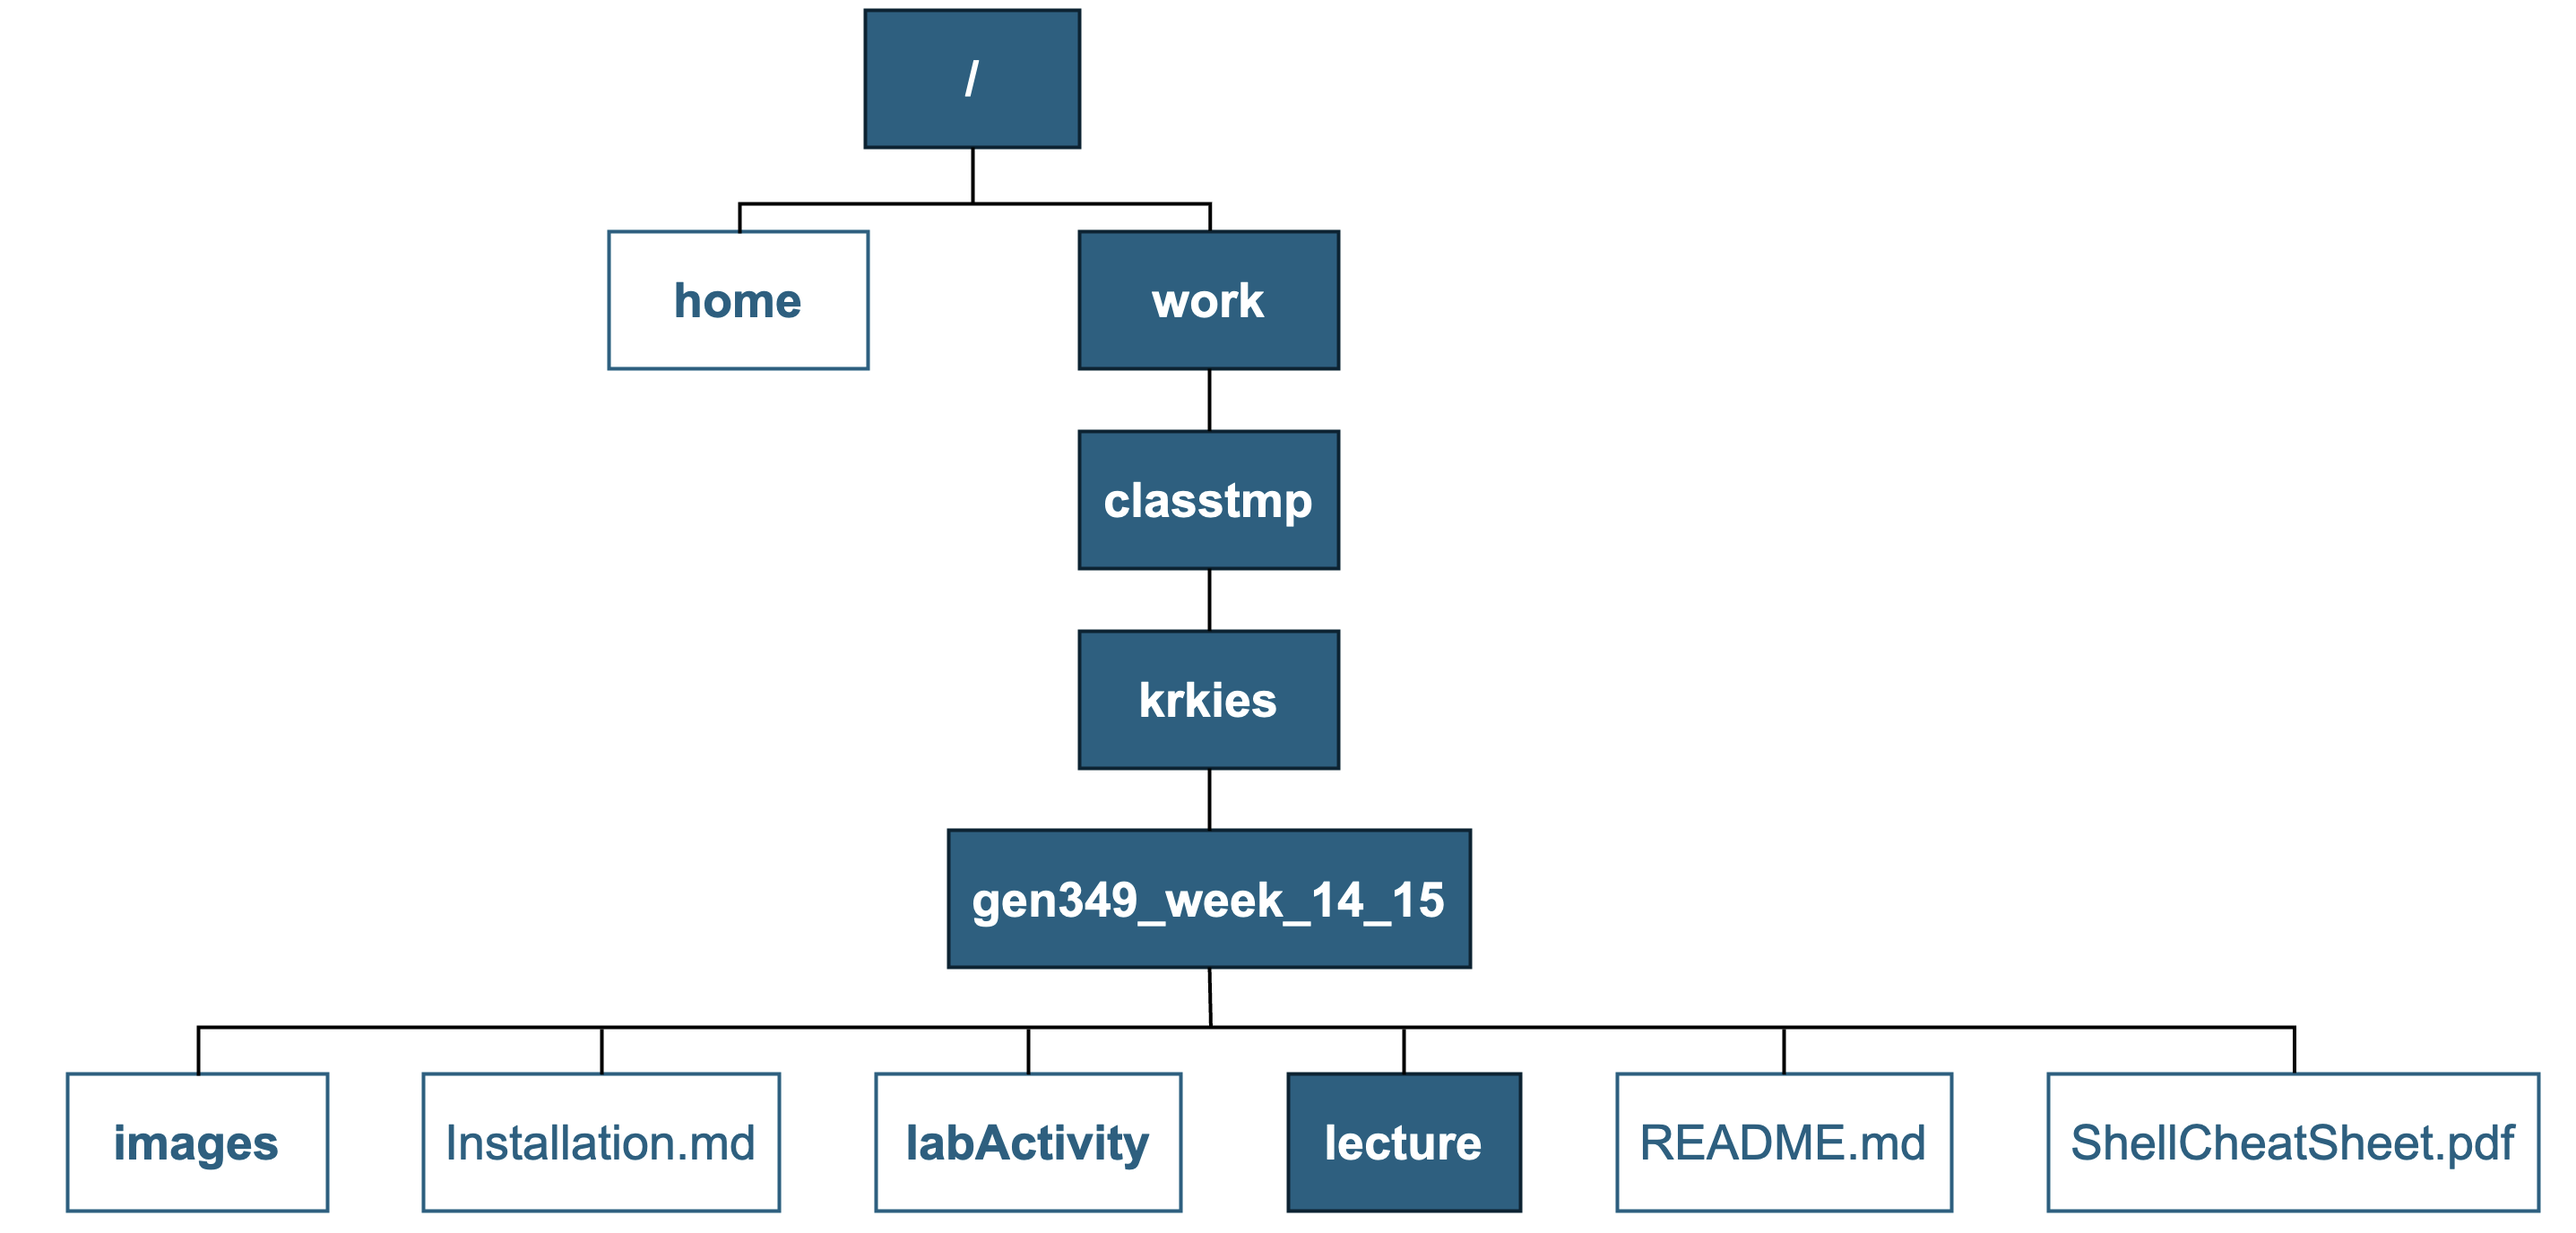
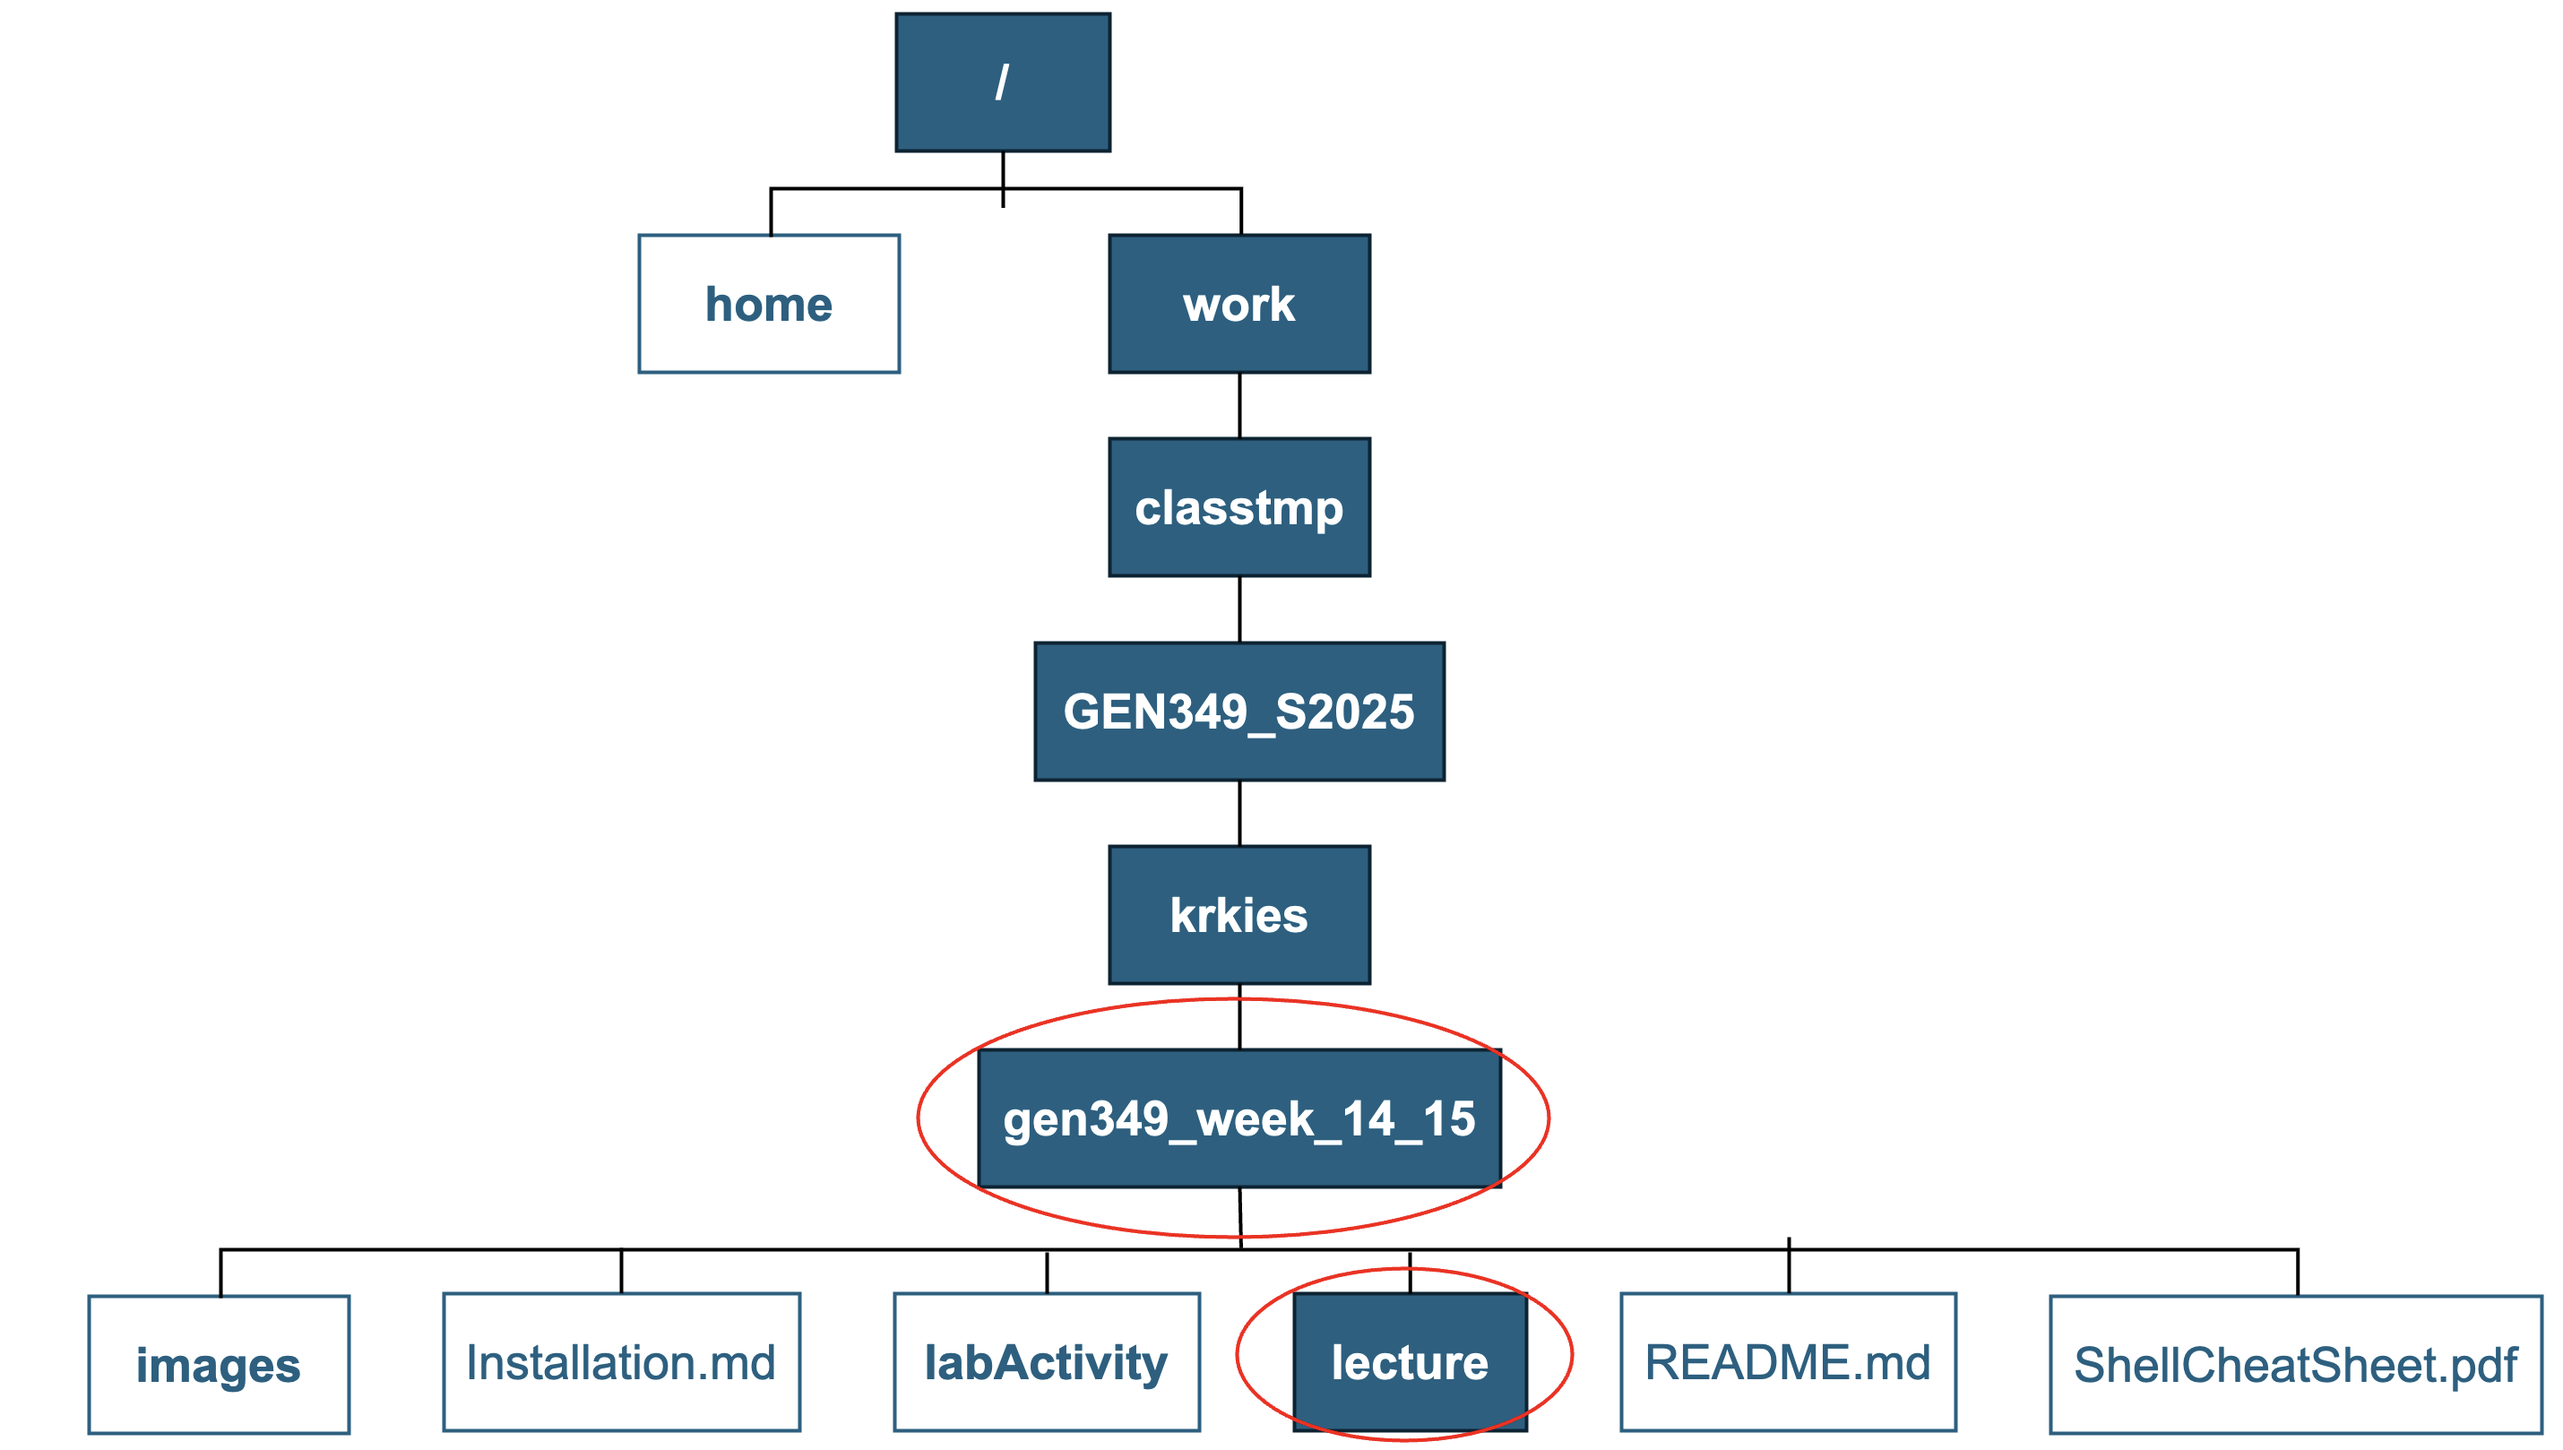
Additional modifications

Changed region(s): [[0.0311, 0.0, 0.9958, 1.0]]

diff --git a/lecture/Week14_lecture.md b/lecture/Week14_lecture.md
@@ -20,14 +20,13 @@ Modified and compiled by [Ha Vu](https://github.com/hhvu0102/unix_basic) (Tuteja
 ## Before we begin
 
 
-### *Make sure you have been able access the class node on Nova. If you are having trouble with this, please tell us!*
+* **Make sure you have been able access the class node on Nova. If you are having trouble with this, please tell us!**
+* Take notes of the commands as we go through the lecture using the suggested format below:
 
-### Take notes of commands we go through
-Suggested format:
 
-| Command | What it does | Example |
-|:-:|:-:|:-:|
-|  Command | What it does |  |
+	| Command | What it does | Example |
+	|:-:|:-:|:-:|
+	|  Command | What it does |  |
 
 ## Introduction to UNIX
 ### What is UNIX?
@@ -66,11 +65,14 @@ Suggested format:
 
 ## Accessing HPC class and some notes
 * Now we will connect to the HPC class for today's tutorial.
-* Make sure to always follow these steps when working on class material.
-* Below are the commands you should use to paste the commands into PowerShell, Putty, and Mac:
-	* PowerShell: `Ctrl + V`
-	* Putty: `Right click`
-	* Mac Terminal: `Command + V`
+* If this is your first time accessing the HPC, please follow these [instructions](https://github.com/Tuteja-Lab/gen349_week_14_15/blob/main/installation.md).
+* If this is NOT your first time accessing the HPC, continue following the steps listed on this page. 
+	* <u>**Make sure to always follow these steps when working on class material.**</u>
+	
+	* Below are the commands you should use to paste the commands into PowerShell, Putty, and Mac:
+		* PowerShell: `Ctrl + V`
+		* Putty: `Right click`
+		* Mac Terminal: `Command + V`
 	
 
 ### Step 1: Connect to ISU Wifi or VPN (if off campus)
@@ -79,22 +81,27 @@ Suggested format:
 
 ### Step 2: Connect to Nova
 
-**Windows:**
+**Windows version >= 10:**
 
-* If you are using PowerShell, copy and paste the command below. Be sure to replace `your-net-id` with your own NetID:
-```
-ssh your-net-id@nova.its.iastate.edu
-```
+* Copy and paste the command below into PowerShell. Be sure to replace `your-net-id` with your own NetID:
+
+	```
+	ssh your-net-id@nova.its.iastate.edu
+	```
+
+**Windows version < 10:**
+
 * If you are using Putty, put the information as in the picture here. Replace `hhvu` with your own NetID.:
-
-<img src="/images/hpc-class.PNG" width="360" height="350" />
+	
+	<img src="/images/hpc-class.PNG" width="360" height="350" />
 
 **MACS:**
 
 * Open the Terminal and copy and paste the command below and replace `your-net-id` with your own NetID:
-```
-ssh your-net-id@nova.its.iastate.edu
-```
+
+	```
+	ssh your-net-id@nova.its.iastate.edu
+	```
 
 #### Step 2a: Enter Verification code
 
@@ -128,7 +135,7 @@ ssh your-net-id@nova.its.iastate.edu
 ## Cloning the GitHub Repository
 Copy and Paste the commands below to your terminal.
 
-- Navigate to the `classtmp/GEN349_S2025/` directory:
+- Navigate to the `classtmp/` directory:
 
 
 	```cd /work/classtmp/GEN349_S2025/```
@@ -224,21 +231,23 @@ Adapted from https://www.geeksforgeeks.org/absolute-relative-pathnames-unix/
 - Where you are in the directory tree is called your **path**.
 - In a path name, different directories and file names are separated by a slash `/`. The root has no name, so it's only one slash `/`.
     - For example:
-    	* Note: Command line will not recognize comments beginning with #. 		These are used for documentation.
     
 	    ```
 	    cd / 
 	    pwd
 	    ls #check what is in the root directory
 	    ```
+	    
+	 	* Note: Command line will not recognize comments beginning with #. These are used for documentation.
+
     
     
 - A path is either **relative** or **absolute**:
     - An **absolute** path = the root element and the complete directory list. An absolute path always starts with `/`.
-    	* An example of an absolute path is: `/work/classtmp/GEN349_S2025/krkies/gen349_week_14_15/`
+    	* An example of an absolute path is `/work/classtmp/GEN349_S2025/krkies/gen349_week_14_15/` (shown below in blue)
     	
     - A **relative** path needs to be combined with another path in order to access a file.
-    	* An example of a relative path is: `gen349_week_14_15/lecture`
+    	* An example of a relative path is`gen349_week_14_15/lecture` (circled in red)
 
 <img src="/images/pathExample.png" width="750" height="400"/>
 
@@ -311,7 +320,7 @@ You cannot `rm testdir` here. Why?
 
 
 ### Tab Completion
-- Navigate to your `classtmp/GEN349_S2025/` directory (in the command below, replace `krkies` with your ISU Net ID)
+- Navigate to your `classtmp/` directory (in the command below, replace `krkies` with your ISU Net ID)
 
 	``` cd /work/classtmp/GEN349_S2025/krkies```
 
